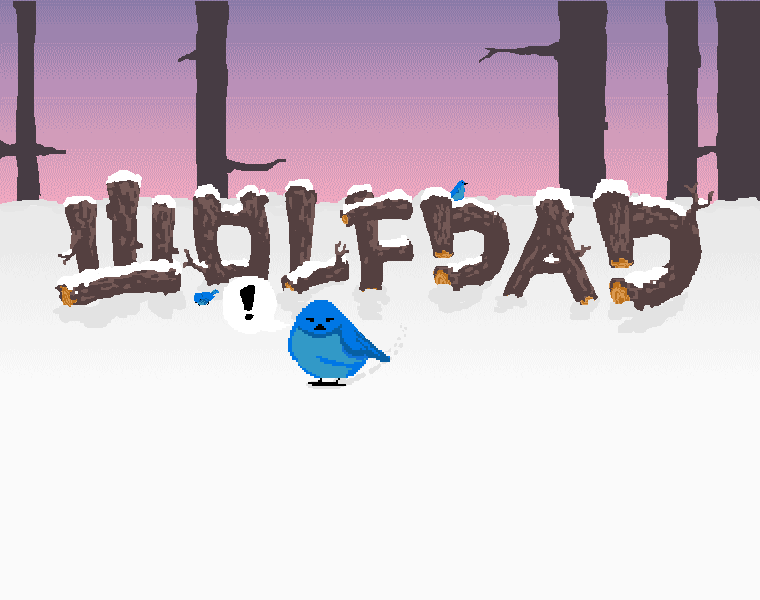
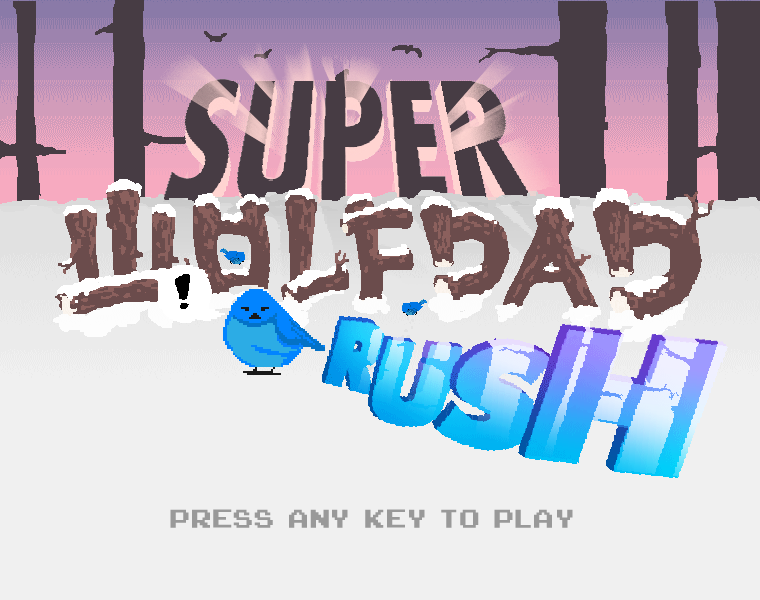
startscreen mods began level builder functons

diff --git a/common.js b/common.js
@@ -17,6 +17,8 @@ myLoader.on('finish', function(){
   $('#start').removeClass("hidden");
 });
 
+var title = true;
+
 var poofSound = new Audio("audio/poof.ogg");
 var woodSound = new Audio("audio/wood.ogg");
 var gameSound = new Audio("audio/game.mp3");
@@ -24,13 +26,25 @@ var heartSound = new Audio("audio/getheart.ogg");
 gameSound.loop = true;
 
 $('#start').click(function(){
-  start();
-  $('#start').addClass("hidden");
-  $('#racer').removeClass("hidden");
+    title = false;
+    start();
+    $('#start').addClass("hidden");
+    $('#racer').removeClass("hidden");
 });
 
-function start() {
+document.onkeydown=function(e){
+  if (title) {
+    start();
+    title = false;
+    $('#start').addClass("hidden");
+    $('#racer').removeClass("hidden");
+  }
+}
 
+
+
+function start() {
+console.log('started');
 //=========================================================================
 // minimalist DOM helpers
 //=========================================================================
@@ -477,7 +491,8 @@ SPRITES.STUMPS     = [SPRITES.STUMP1, SPRITES.STUMP1];
     var maxHearts      = 6;
     var hearts         = 6;
     var birdHealth     = 99;
-    var combo          = true;
+    var isCombo        = false;
+    var currentCombo   = 1;    
 
     var keyLeft        = false;
     var keyRight       = false;
@@ -554,20 +569,36 @@ SPRITES.STUMPS     = [SPRITES.STUMP1, SPRITES.STUMP1];
 
       for(n = 0 ; n < playerSegment.cars.length ; n++) {
         car  = playerSegment.cars[n];
-        carW = car.sprite.w * SPRITES.SCALE;
+        carW = (car.sprite.w * SPRITES.SCALE) * 2;
         if (speed > car.speed) {
-          if (Util.overlap(playerX, playerW, car.offset, (carW*2), 1)) {
+          if (Util.overlap(playerX, playerW, car.offset, (carW), 1)) {
             // position = Util.increase(car.z, -playerZ, trackLength)
             playerSegment.cars.splice();
+            currentCombo += 1;
+            console.log(currentCombo);
             var currentSpeed = speed;
             speed    = 0;
+            if (currentCombo >= 11) {
+              carW = (car.sprite.w * SPRITES.SCALE) * 10;
+              isCombo = true;
+              $('#wolf').addClass("hidden");
+              console.log("combo");
+            }  else { 
+              isCombo = false;
+            }
             setTimeout(function(){ 
-              speed = currentSpeed + maxSpeed/20; 
-              position += currentSpeed/4;
-              console.log(currentSpeed);
-              $('#wolf').removeClass("hidden");
-            }, 200);
-            $('#wolf').addClass("hidden");
+              speed = currentSpeed + maxSpeed/20;
+              if (isCombo) {
+                position += 5000;
+                if (keyLeft) {
+                  playerX = playerX - 0.4;
+                }
+                else if (keyRight) {
+                  playerX = playerX + 0.4;
+                }
+              }
+              setTimeout( function(){$('#wolf').removeClass("hidden");}, 200);
+            }, 250);
             birds += 1;
             birdHealth += 1;
             if (birdHealth === 100) {
@@ -594,6 +625,10 @@ SPRITES.STUMPS     = [SPRITES.STUMP1, SPRITES.STUMP1];
                   $('.feather-animation').addClass('feather-pop2').removeClass("feather-pop");
                }
             break;
+          } else {
+            isCombo = false;
+            currentCombo = 1;
+            console.log("miss");
           }
         }
       }
@@ -631,35 +666,35 @@ SPRITES.STUMPS     = [SPRITES.STUMP1, SPRITES.STUMP1];
       hillOffset = Util.increase(hillOffset, hillSpeed * playerSegment.curve * (position-startPosition)/segmentLength, 1);
       treeOffset = Util.increase(treeOffset, treeSpeed * playerSegment.curve * (position-startPosition)/segmentLength, 1);
 
-      if (position > playerZ) {
-        if (currentLapTime && (startPosition < playerZ)) {
-          lastLapTime    = currentLapTime;
-          currentLapTime = 0;
-          if (lastLapTime <= Util.toFloat(Dom.storage.fast_lap_time)) {
-            Dom.storage.fast_lap_time = lastLapTime;
-            updateHud('fast_lap_time', formatTime(lastLapTime));
-            Dom.addClassName('fast_lap_time', 'fastest');
-            Dom.addClassName('last_lap_time', 'fastest');
-            cars.length = 0;
-            stumps.length = 0;
-            resetCars();
-            resetStumps();
-          }
-          else {
-            Dom.removeClassName('fast_lap_time', 'fastest');
-            Dom.removeClassName('last_lap_time', 'fastest');
-            cars.length = 0;
-            stumps.length = 0;
-            resetCars();
-            resetStumps();
-          }
-          updateHud('last_lap_time', formatTime(lastLapTime));
-          Dom.show('last_lap_time');
-        }
-        else {
-          currentLapTime += dt;
-        }
-      }
+      // if (position > playerZ) {
+      //   if (currentLapTime && (startPosition < playerZ)) {
+      //     lastLapTime    = currentLapTime;
+      //     currentLapTime = 0;
+      //   //   if (lastLapTime <= Util.toFloat(Dom.storage.fast_lap_time)) {
+      //   //     Dom.storage.fast_lap_time = lastLapTime;
+      //   //     updateHud('fast_lap_time', formatTime(lastLapTime));
+      //   //     Dom.addClassName('fast_lap_time', 'fastest');
+      //   //     Dom.addClassName('last_lap_time', 'fastest');
+      //   //     // cars.length = 0;
+      //   //     // stumps.length = 0;
+      //   //     // resetCars();
+      //   //     // resetStumps();
+      //   //   }
+      //   //   else {
+      //   //     Dom.removeClassName('fast_lap_time', 'fastest');
+      //   //     Dom.removeClassName('last_lap_time', 'fastest');
+      //   //     cars.length = 0;
+      //   //     stumps.length = 0;
+      //   //     // resetCars();
+      //   //     // resetStumps();
+      //   //   }
+      //   //   updateHud('last_lap_time', formatTime(lastLapTime));
+      //   //   Dom.show('last_lap_time');
+      //   // }
+      //   else {
+      //     currentLapTime += dt;
+      //   }
+      // }
 
       updateHud('speed',            score);
       updateHud('current_lap_time', birds);
@@ -1113,22 +1148,90 @@ SPRITES.STUMPS     = [SPRITES.STUMP1, SPRITES.STUMP1];
     function resetCars() {
       cars = [];
       var n, car, segment, offset, z, sprite, speed;
-      if (totalCars > 50) {
-        totalCars = totalCars * 0.5;
-      }
-      for (var n = 50 ; n < totalCars ; n++) {
-        offset = Math.random() * Util.randomChoice([-1, 1]);
-        z      = (Math.floor(Math.random() * segments.length) * segmentLength) + 20000;
-        sprite = Util.randomChoice(SPRITES.CARS);
-        speed  = maxSpeed/4 + Math.random() * maxSpeed/(sprite == SPRITES.SEMI ? 4 : 2);
-        car = { offset: offset, z: z, sprite: sprite, speed: speed };
-        segment = findSegment(car.z);
-        if (z < segments.length * segmentLength) {
-        segment.cars.push(car);
-        cars.push(car);
-      }
-      }
+      var lastCar = 20000;
+      var lastCarX = 0;
+      intro(lastCar);
     }
+
+    function BirdMiddle(lastCar) {
+      offset = 0;
+      z      = lastCar;
+      sprite = Util.randomChoice(SPRITES.CARS);
+      speed  = maxSpeed/4 + Math.random() * maxSpeed/(sprite == SPRITES.SEMI ? 4 : 2);
+      car = { offset: offset, z: z, sprite: sprite, speed: speed };
+      segment = findSegment(car.z);
+      segment.cars.push(car);
+      cars.push(car);
+    }
+
+    function BirdLeft(lastCar) {
+      offset = -1;
+      z      = lastCar;
+      sprite = Util.randomChoice(SPRITES.CARS);
+      speed  = maxSpeed/4 + Math.random() * maxSpeed/(sprite == SPRITES.SEMI ? 4 : 2);
+      car = { offset: offset, z: z, sprite: sprite, speed: speed };
+      segment = findSegment(car.z);
+      segment.cars.push(car);
+      cars.push(car);
+    }
+
+    function BirdRight(lastCar) {
+      offset = 1;
+      z      = lastCar;
+      sprite = Util.randomChoice(SPRITES.CARS);
+      speed  = maxSpeed/4 + Math.random() * maxSpeed/(sprite == SPRITES.SEMI ? 4 : 2);
+      car = { offset: offset, z: z, sprite: sprite, speed: speed };
+      segment = findSegment(car.z);
+      segment.cars.push(car);
+      cars.push(car);
+    }
+
+    function intro(lastCar) {
+      BirdMiddle(lastCar);
+      lastCar += 6000;
+      BirdLeft(lastCar);
+      lastCar += 6000;
+      BirdMiddle(lastCar);
+      lastCar += 6000;
+      BirdRight(lastCar);
+      lastCar += 6000;
+      BirdRight(lastCar);
+      lastCar += 18000;
+      BirdMiddle(lastCar);
+      lastCar += 6000;
+      BirdLeft(lastCar);
+      lastCar += 6000;
+      BirdMiddle(lastCar);
+      lastCar += 6000;
+      BirdRight(lastCar);
+      lastCar += 6000;
+      BirdRight(lastCar);
+    }
+
+
+    // function resetCars() {
+    //   cars = [];
+    //   var n, car, segment, offset, z, sprite, speed;
+    //   var lastCar = 10000;
+    //   var lastCarX = 0;
+    //   if (totalCars > 50) {
+    //     totalCars = totalCars * 0.5;
+    //   }
+    //   for (var n = 50 ; n < totalCars ; n++) {
+    //     lastCar += 6000;
+    //     offset = Math.random() * Util.randomChoice([-1, 1]) + 0.6;
+    //     lastCarX = offset;
+    //     z      = lastCar + (Math.floor(Math.random() * 10) + 1) * 100
+    //     sprite = Util.randomChoice(SPRITES.CARS);
+    //     speed  = maxSpeed/4 + Math.random() * maxSpeed/(sprite == SPRITES.SEMI ? 4 : 2);
+    //     car = { offset: offset, z: z, sprite: sprite, speed: speed };
+    //     segment = findSegment(car.z);
+    //     if (z < segments.length * segmentLength) {
+    //     segment.cars.push(car);
+    //     cars.push(car);
+    //   }
+    //   }
+    // }
 
     function resetStumps() {
       stumps = [];

diff --git a/common.css b/common.css
@@ -21,7 +21,7 @@ body          { font-family: Arial, Helvetica, sans-serif; background: #efefef; 
 #controls     { width: 28em; float: left; padding: 1em; font-size: 0.7em; }
 #controls th  { text-align: right; vertical-align: middle; }
 #instructions { clear: left; float: left; width: 17em; padding: 1em; border: 1px solid black; box-shadow: 0 0 5px black; }
-#racer        {  position: relative; top: 0; left: 50%; z-index: 0; width: 640px; height: 480px; margin-left: -320px; background: url('images/logo.png'); }
+#racer        { overflow: hidden; position: relative; top: 0; left: 50%; z-index: 0; width: 640px; height: 480px; margin-left: -320px; background: url('images/logo.png'); }
 #canvas       { position: absolute; z-index: 0; width: 640px; height: 480px; z-index: 0; background-color: #efefef; }
 #mute         { display:none; background-position:   0px 0px; width: 32px; height: 32px; background: url(images/mute.png); display: inline-block; cursor: pointer; position: absolute; margin-left: 20em; }
 #mute.on      { background-position: -32px 0px; }
@@ -85,7 +85,7 @@ body          { font-family: Arial, Helvetica, sans-serif; background: #efefef; 
 .wolf-animation {
 	z-index: 1;
 	position: absolute;
-	bottom: -100px;
+	bottom: -50px;
 	left: 50%;
 	margin-left: -100px;
 	width: 200px;
